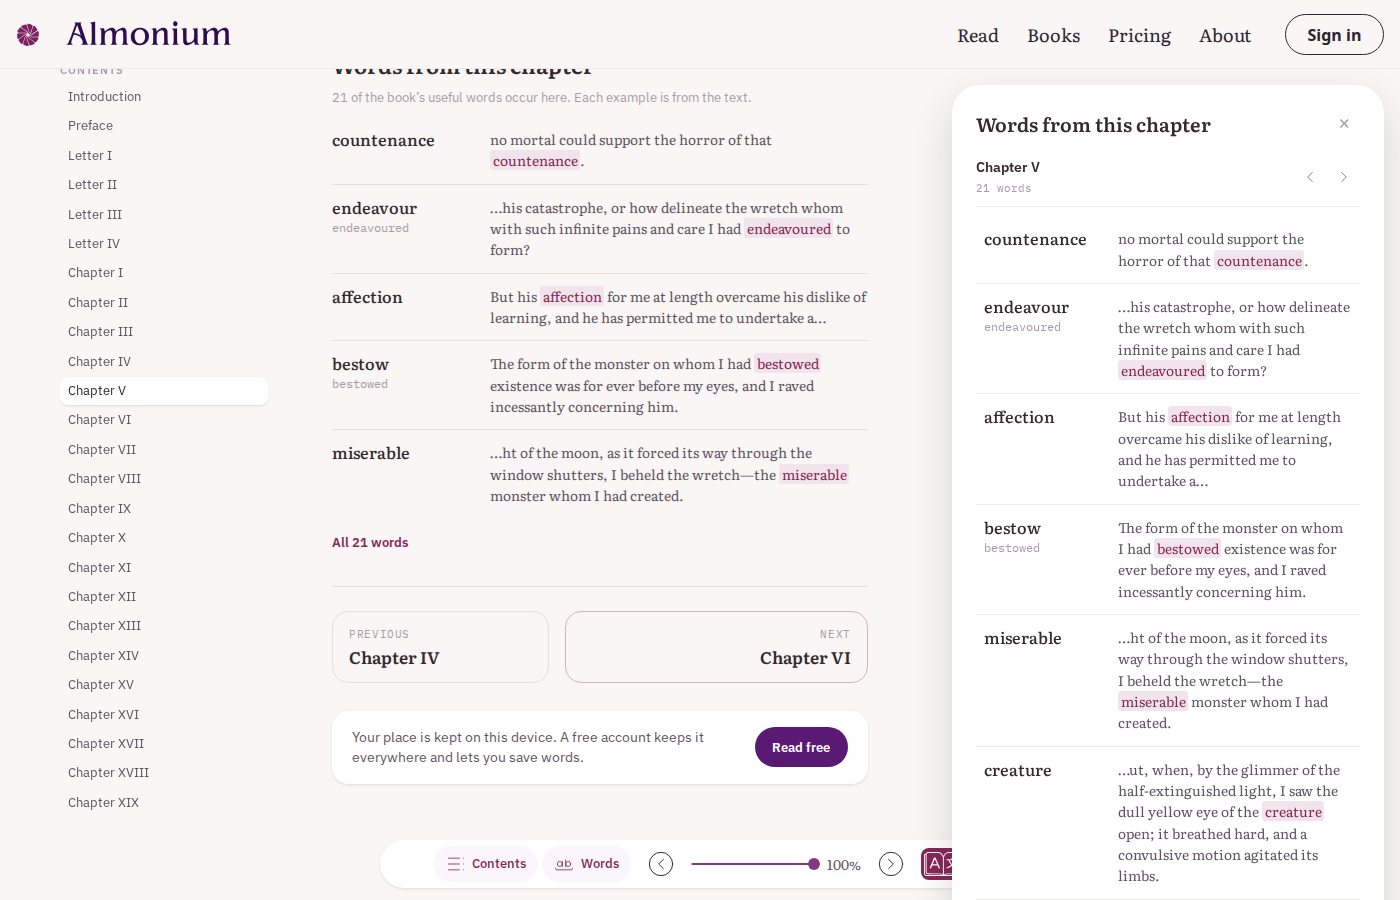
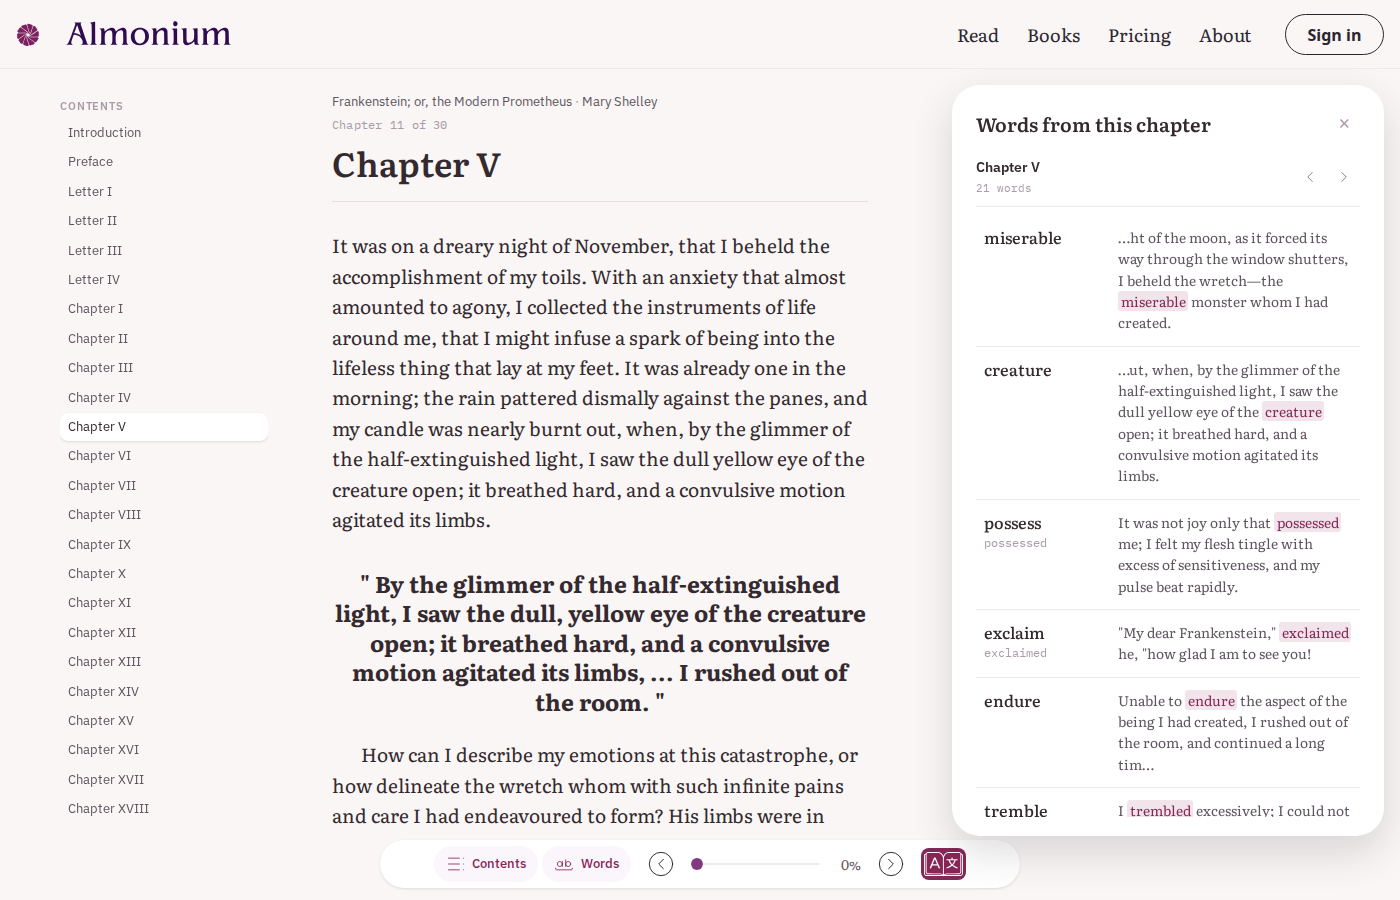
Scroll the Words rail's list inside its plate under a fixed header

diff --git a/src/app/sections/read/reader/chapter-vocabulary.component.less b/src/app/sections/read/reader/chapter-vocabulary.component.less
@@ -31,8 +31,9 @@
 .vocab__more:hover { text-decoration: underline; }
 
 // The rail (J4): the same frame as the word card, its list scrolling inside it.
-.vocab--rail { max-height: 100%; padding: 1.4rem 1.5rem 1.2rem; border-radius: 1.75rem; background: var(--card-color); box-shadow: var(--overlay-shadow); }
-.vocab--rail .vocab__list { overflow-y: auto; scrollbar-width: thin; }
+.vocab--rail { flex: 1 1 auto; min-height: 0; padding: 1.4rem 1.5rem 1.2rem; border-radius: 1.75rem; background: var(--card-color); box-shadow: var(--overlay-shadow); }
+// The header stays; the list scrolls inside the plate, so the frame and its shadow stay whole.
+.vocab--rail .vocab__list { flex: 1 1 auto; min-height: 0; overflow-y: auto; scrollbar-width: thin; }
 .vocab--rail .vocab__row { grid-template-columns: minmax(5.5rem, 7.5rem) minmax(0, 1fr); padding-right: .5rem; padding-left: .5rem; }
 
 // The chapter end (J3): a plain block under the last paragraph.
